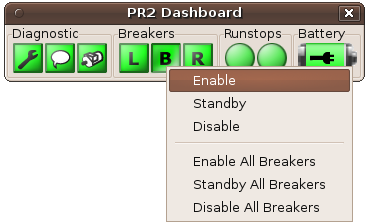
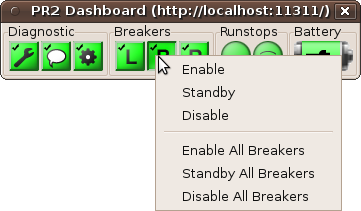
adding battery section

Changed region(s): [[0.0, 0.0, 1.0, 1.0], [0.4875, 0.6825, 0.8532, 0.7678], [0.4875, 0.7962, 0.8837, 0.8531]]

diff --git a/pr2_manual/5_pr2_software.tex b/pr2_manual/5_pr2_software.tex
@@ -205,14 +205,25 @@ There are two run-stops on the robot, a wireless run-stop, see \ref{wirelessruns
     \newcolumntype{S}{>{\centering\arraybackslash} m{2.5cm} }%                                                                                                         
     \begin{tabular}{m{2.6cm}SSS}
      & OK & Physical Stop is Off & Wireless Stop is Off\\
-    Runstop Status & \includegraphics[scale=0.5]{runstop-green.png}\includegraphics[scale=0.5]{runstop-green.png}&
-                     \includegraphics[scale=0.5]{runstop-red.png}\includegraphics[scale=0.5]{runstop-green.png}&
-                     \includegraphics[scale=0.5]{runstop-yellow.png}\includegraphics[scale=0.5]{runstop-red.png}\\
+    Runstop Status & \includegraphics[scale=0.5]{runstop-green.png}\includegraphics[scale=0.5]{runstop_wireless_ok.png}&
+                     \includegraphics[scale=0.5]{runstop-red.png}\includegraphics[scale=0.5]{runstop_wireless_ok.png}&
+                     \includegraphics[scale=0.5]{runstop-yellow.png}\includegraphics[scale=0.5]{runstop_wireless_stop.png}\\
    \end{tabular}
 
 
 \item[Battery Status]
-%LT: NEED CONTENT HERE; how should one interpret the battery status indicator?
+The battery will change its color and \% filled based on the amount of battery remaining. It will also show a power-plug symbol if the robot is charging.
+    \newcolumntype{S}{>{\centering\arraybackslash} m{1.85cm} }%                                                      
+                                                                                                                      
+    \begin{tabular}{m{2.5cm}SSSS}
+     & $>$ 50\% & 30 - 50\% & $<$ 30\% & Charging\\
+    Battery Status & \includegraphics[scale=0.5]{battery_green.png}&
+                     \includegraphics[scale=0.5]{battery_yellow.png}&
+                     \includegraphics[scale=0.5]{battery_red.png}&
+                     \includegraphics[scale=0.5]{battery_charging.png}\\
+   \end{tabular}
+
+
 \end{description}
 
 \section{Calibrating the joints}
@@ -233,7 +244,7 @@ to the robot and run the teleop\_joystick launch file
 $ ssh username@prx1
 $ roslaunch pr2_teleop teleop_joystick.launch 
 \end{verbatim}
-Once the teleop\_joystick node is running, press the pairing button (Figure~\ref{fig:pairing}) in the middle of the 
+Once the teleop\_joystick node is running, press the pairing button (Figure~\ref{fig:ps3_pairing}) in the middle of the 
 joystick to pair it with the robot (the four LEDs on the jostick will flash when paired). 
 \begin{figure}[H]
 \centering
